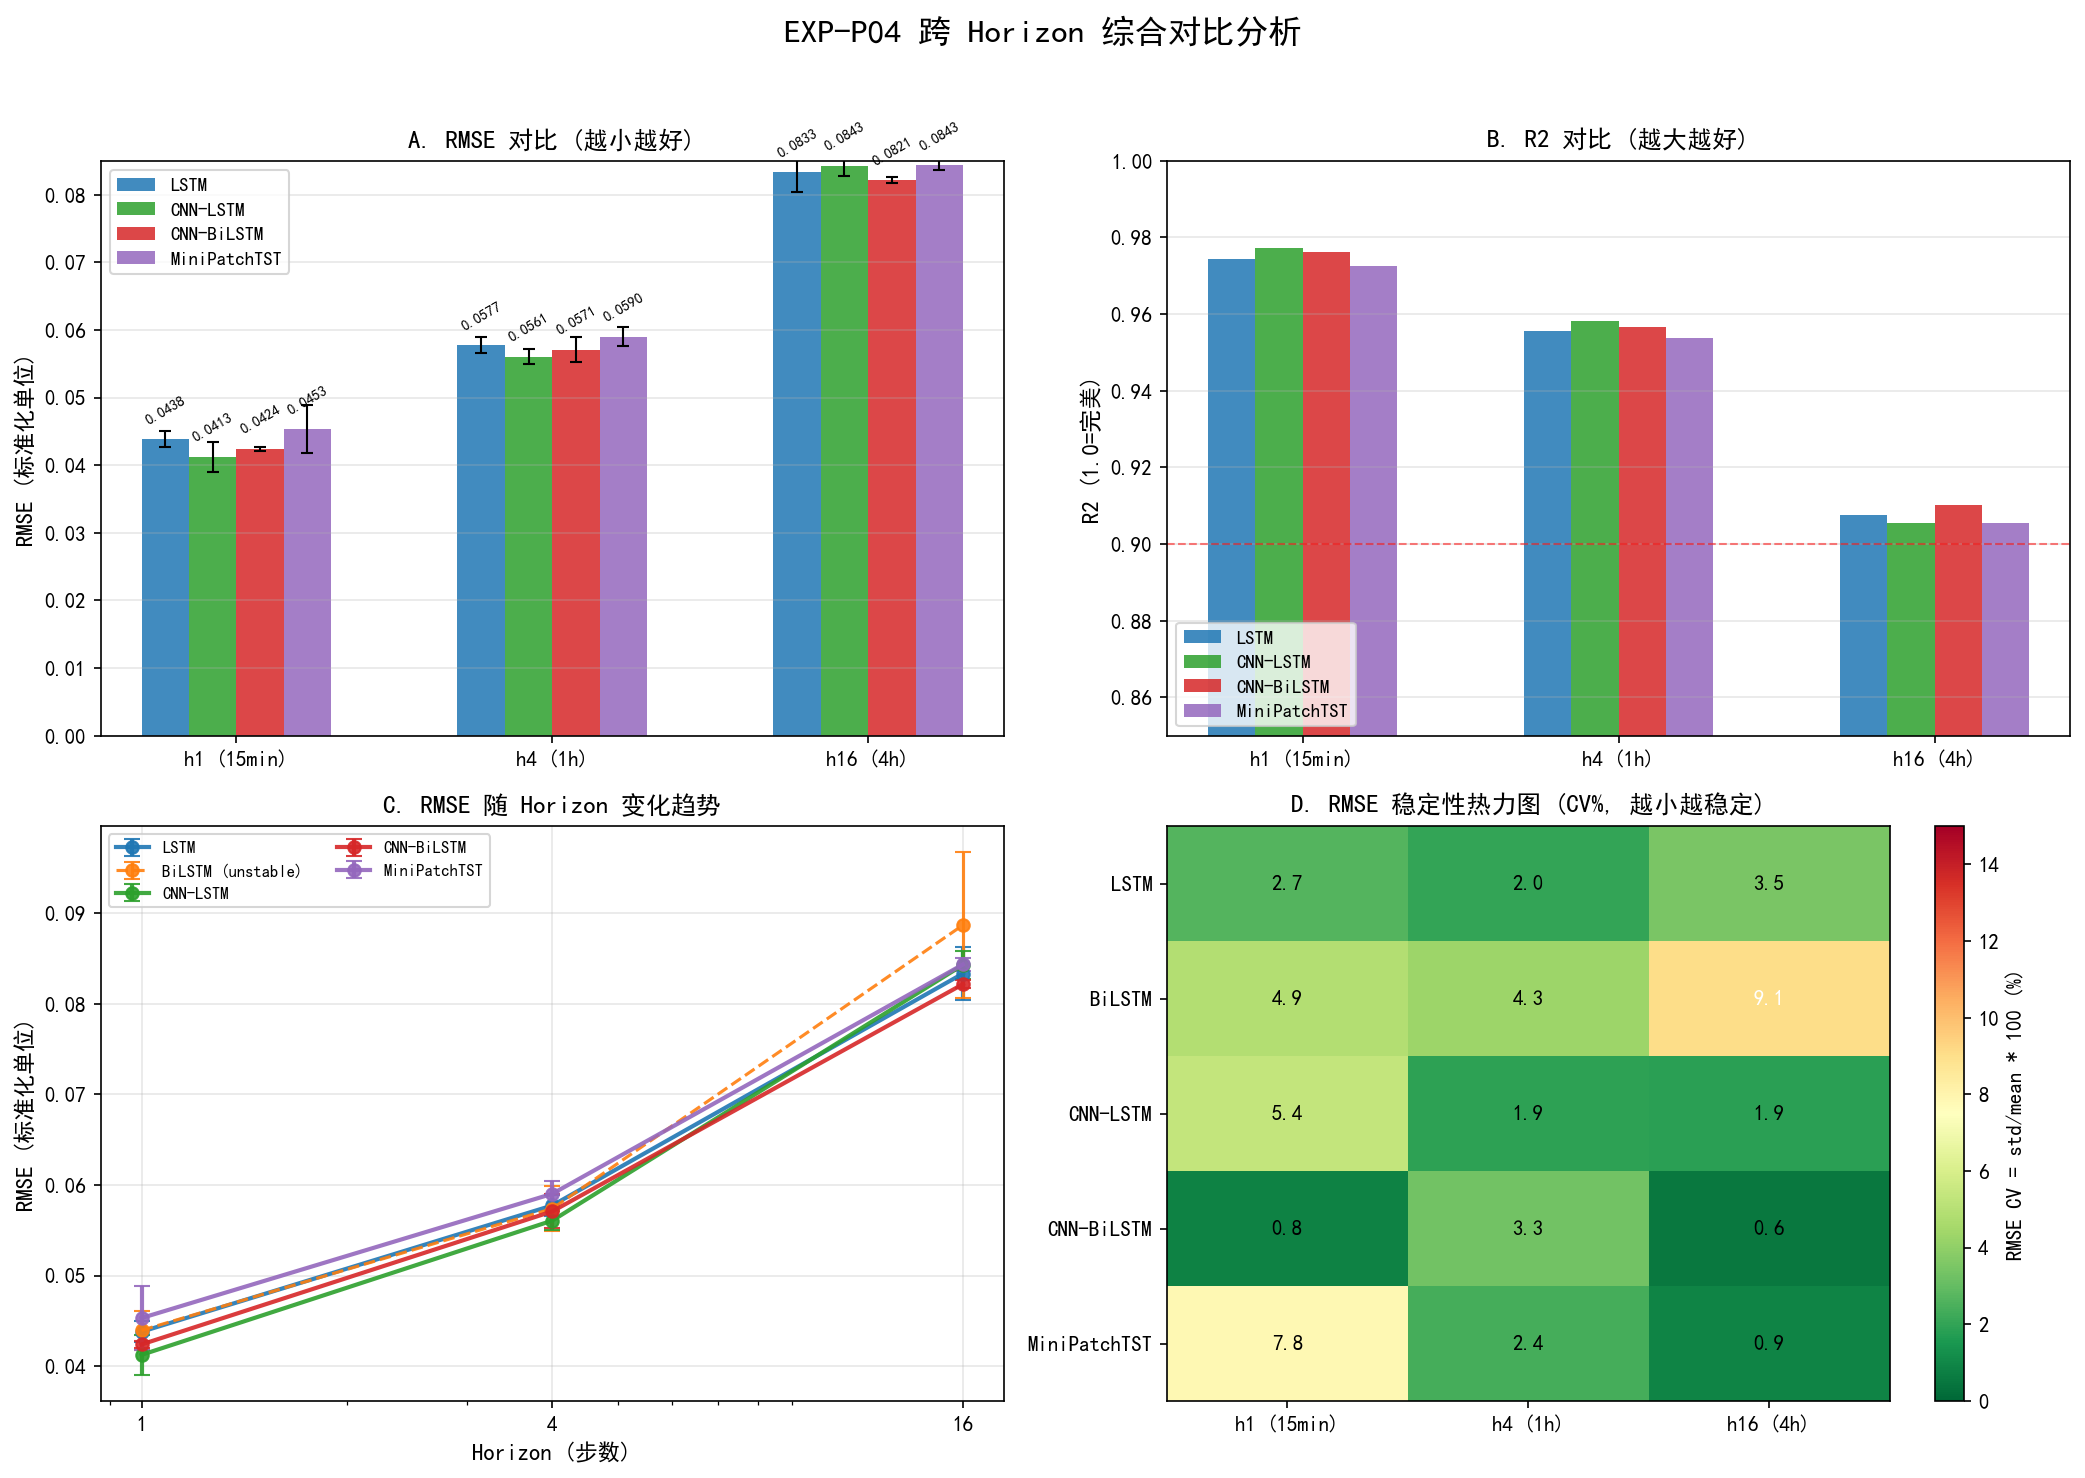
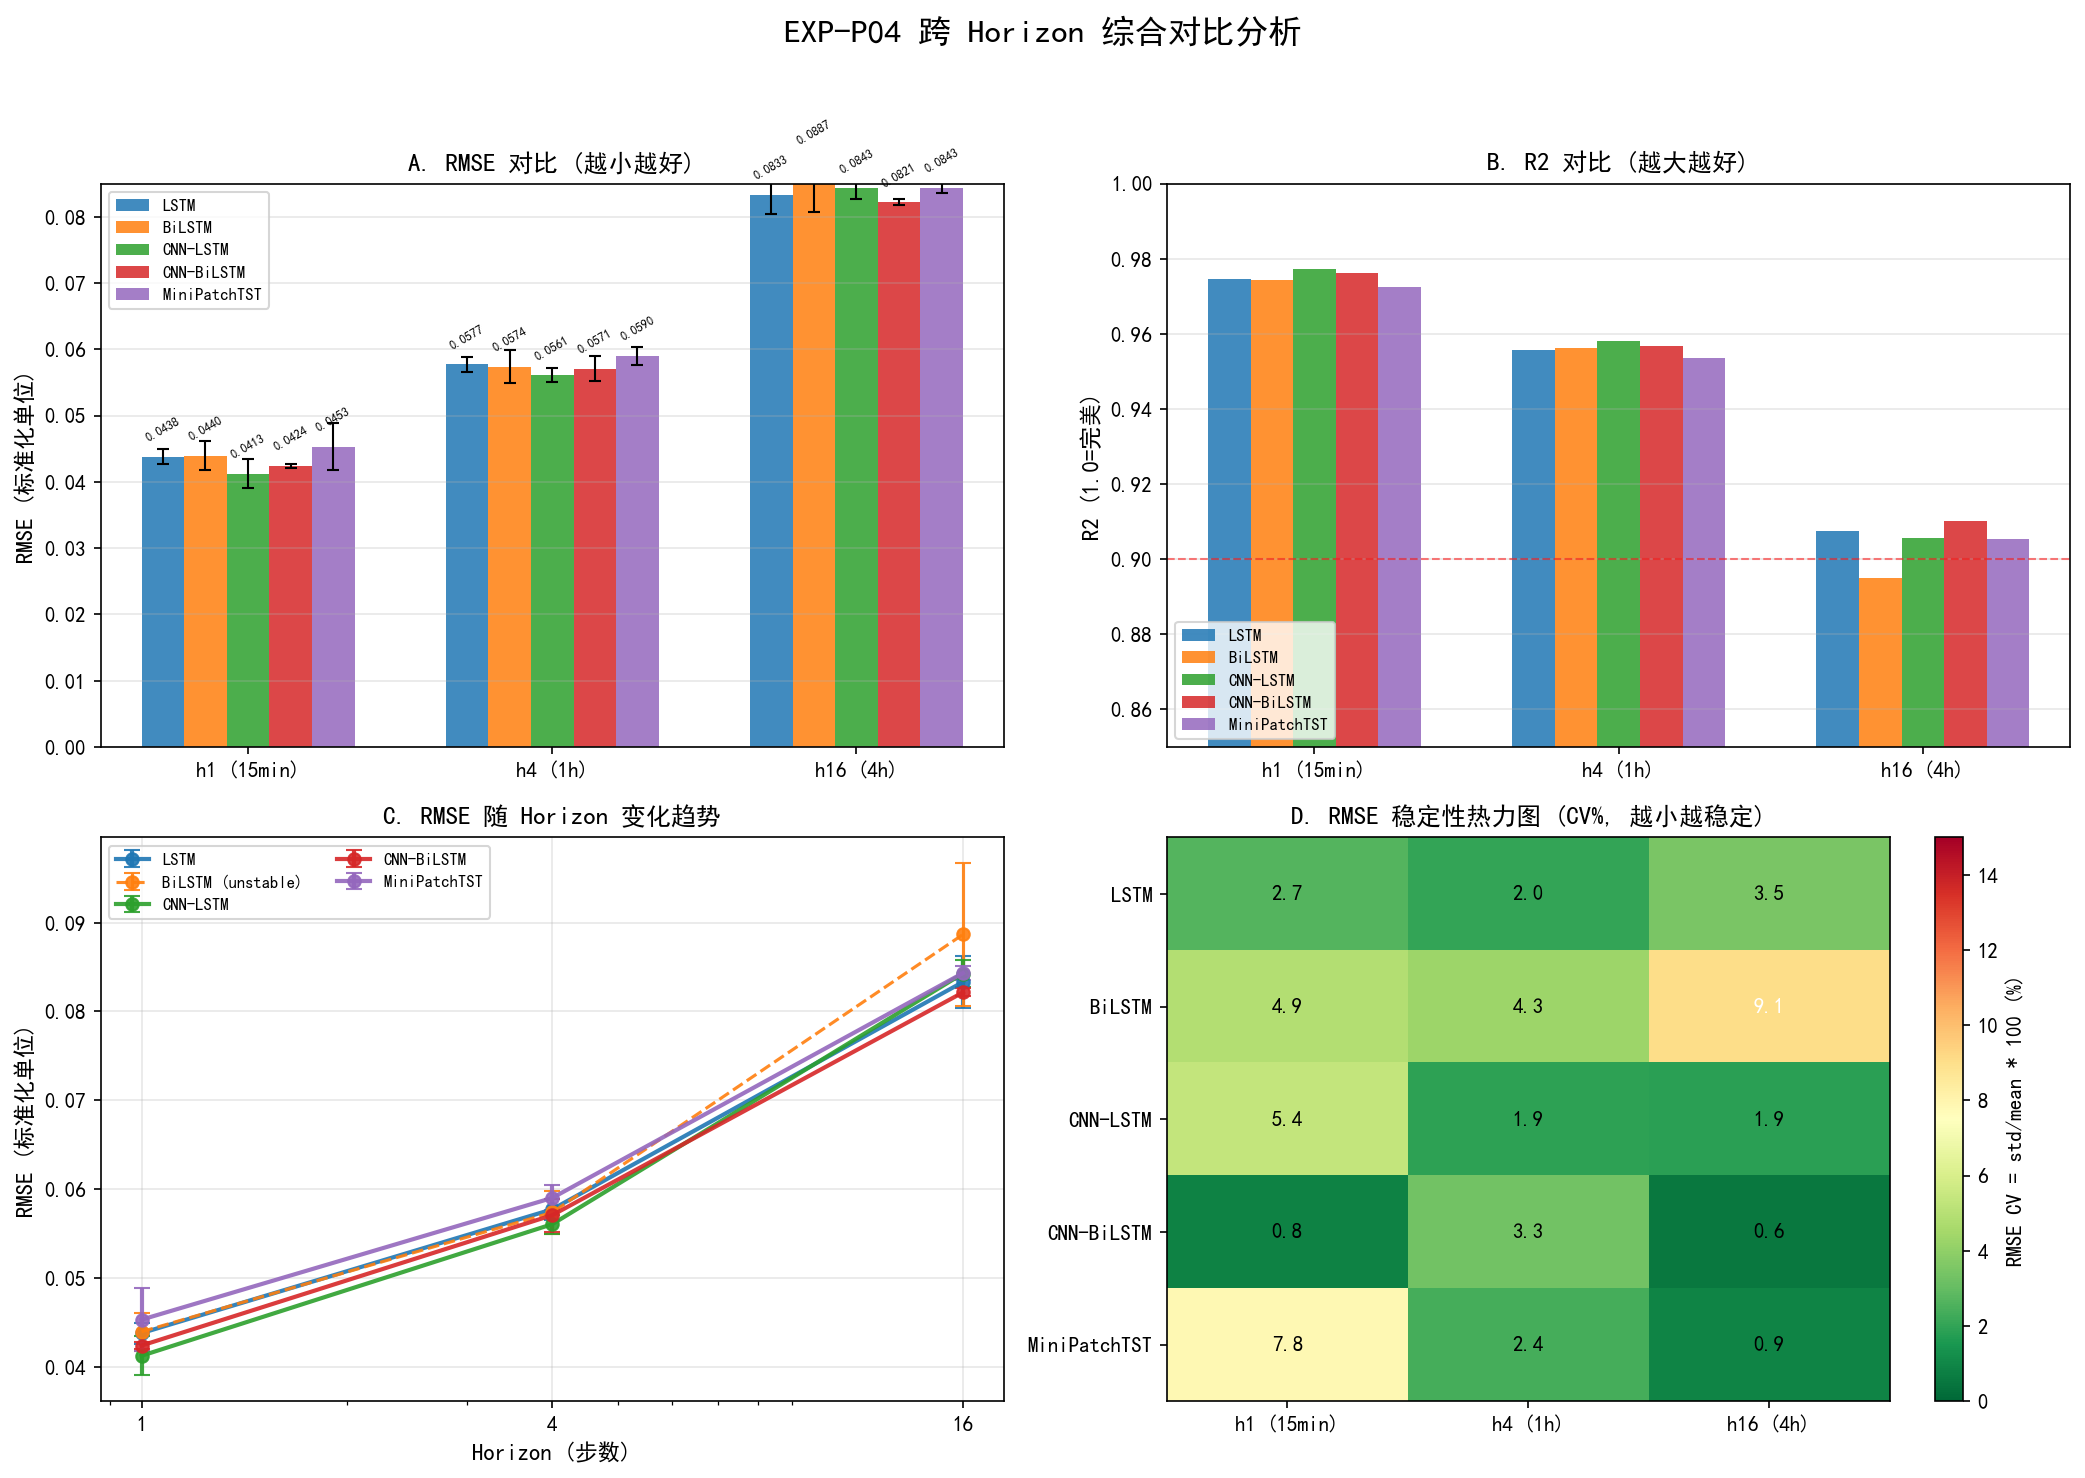
图像加上bilstm

diff --git a/experiments/prediction/step4_optuna_hybrid/run_exp_p04_summary.py b/experiments/prediction/step4_optuna_hybrid/run_exp_p04_summary.py
@@ -84,43 +84,43 @@ fig, axes = plt.subplots(2, 2, figsize=(14, 10))
 fig.suptitle("EXP-P04 跨 Horizon 综合对比分析", fontsize=16, fontweight="bold", y=0.98)
 
 h_positions = np.arange(len(HORIZONS))
-bar_width = 0.6
-models_filtered = [m for m in MODELS if m != "bilstm"]  # main 4 for clean bars
-MODEL_LABELS_F = ["LSTM", "CNN-LSTM", "CNN-BiLSTM", "MiniPatchTST"]
-COLORS_F = ["#1f77b4", "#2ca02c", "#d62728", "#9467bd"]
+bar_width = 0.7
+models_bar = MODELS.copy()  # 包含所有模型包括bilstm
+MODEL_LABELS_F = MODEL_LABELS.copy()  # ["LSTM", "BiLSTM", "CNN-LSTM", "CNN-BiLSTM", "MiniPatchTST"]
+COLORS_F = [MODEL_COLORS[m] for m in models_bar]
 
 # ─ Panel A: RMSE ───────────────────────────────────
 ax = axes[0, 0]
-for i, model in enumerate(models_filtered):
+for i, model in enumerate(models_bar):
     means = [metrics[model][hs]["rmse"] for hs in HORIZONS]
     stds = [metrics[model][hs]["rmse_std"] for hs in HORIZONS]
-    x = h_positions + i * bar_width / len(models_filtered) - bar_width * 0.5 + bar_width / len(models_filtered) / 2
-    bars = ax.bar(x, means, bar_width / len(models_filtered),
+    x = h_positions + i * bar_width / len(models_bar) - bar_width * 0.5 + bar_width / len(models_bar) / 2
+    bars = ax.bar(x, means, bar_width / len(models_bar),
                   label=MODEL_LABELS_F[i], color=COLORS_F[i], alpha=0.85)
     ax.errorbar(x, means, yerr=stds, fmt="none", color="black", capsize=3, linewidth=1)
     for bar, val in zip(bars, means):
         ax.text(bar.get_x() + bar.get_width() / 2, bar.get_height() + 0.002,
-                f"{val:.4f}", ha="center", va="bottom", fontsize=7, rotation=30)
+                f"{val:.4f}", ha="center", va="bottom", fontsize=6, rotation=30)
 ax.set_xticks(h_positions)
 ax.set_xticklabels(HORIZON_LABELS, fontsize=10)
 ax.set_ylabel("RMSE (标准化单位)", fontsize=11)
 ax.set_title("A. RMSE 对比 (越小越好)", fontsize=12, fontweight="bold")
-ax.legend(fontsize=9, loc="upper left")
+ax.legend(fontsize=8, loc="upper left")
 ax.grid(axis="y", alpha=0.3)
 ax.set_ylim(0, 0.085)
 
 # ─ Panel B: R2 ─────────────────────────────────────
 ax = axes[0, 1]
-for i, model in enumerate(models_filtered):
+for i, model in enumerate(models_bar):
     means = [metrics[model][hs]["r2"] for hs in HORIZONS]
-    x = h_positions + i * bar_width / len(models_filtered) - bar_width * 0.5 + bar_width / len(models_filtered) / 2
-    ax.bar(x, means, bar_width / len(models_filtered),
+    x = h_positions + i * bar_width / len(models_bar) - bar_width * 0.5 + bar_width / len(models_bar) / 2
+    ax.bar(x, means, bar_width / len(models_bar),
            label=MODEL_LABELS_F[i], color=COLORS_F[i], alpha=0.85)
 ax.set_xticks(h_positions)
 ax.set_xticklabels(HORIZON_LABELS, fontsize=10)
 ax.set_ylabel("R2 (1.0=完美)", fontsize=11)
 ax.set_title("B. R2 对比 (越大越好)", fontsize=12, fontweight="bold")
-ax.legend(fontsize=9, loc="lower left")
+ax.legend(fontsize=8, loc="lower left")
 ax.grid(axis="y", alpha=0.3)
 ax.set_ylim(0.85, 1.0)
 ax.axhline(y=0.9, color="red", linestyle="--", linewidth=1, alpha=0.5, label="R2=0.9 基线")
